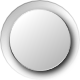
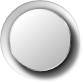
New knob backgrounds; Minor graphical improvements

diff --git a/src/ctl_knob.cpp b/src/ctl_knob.cpp
@@ -56,7 +56,7 @@ calf_knob_expose (GtkWidget *widget, GdkEventExpose *event)
     int neg_b = 0;
     int neg_l = 0;
     
-    cairo_rectangle(ctx, ox, oy, size, size);
+    cairo_rectangle(ctx, ox, oy, size + size / 2, size + size / 2);
     cairo_clip(ctx);
     
     switch (self->knob_type) {
@@ -101,7 +101,13 @@ calf_knob_expose (GtkWidget *widget, GdkEventExpose *event)
     cairo_set_line_width(ctx, widths[self->knob_size]);
     
     // draw background
-    gdk_draw_pixbuf(GDK_DRAWABLE(widget->window), widget->style->fg_gc[0], CALF_KNOB_CLASS(GTK_OBJECT_GET_CLASS(widget))->knob_image[self->knob_size - 1], 0, 0, ox, oy, size, size, GDK_RGB_DITHER_NORMAL, 0, 0);
+    gdk_draw_pixbuf(GDK_DRAWABLE(widget->window),
+                    widget->style->fg_gc[0],
+                    CALF_KNOB_CLASS(GTK_OBJECT_GET_CLASS(widget))->knob_image[self->knob_size - 1],
+                    0, 0, ox, oy,
+                    gdk_pixbuf_get_width(CALF_KNOB_CLASS(GTK_OBJECT_GET_CLASS(widget))->knob_image[self->knob_size - 1]),
+                    gdk_pixbuf_get_height(CALF_KNOB_CLASS(GTK_OBJECT_GET_CLASS(widget))->knob_image[self->knob_size - 1]),
+                    GDK_RGB_DITHER_NORMAL, 0, 0);
     
     // draw unlit
     if (neg_b)

diff --git a/src/ctl_vumeter.cpp b/src/ctl_vumeter.cpp
@@ -208,10 +208,10 @@ calf_vumeter_expose (GtkWidget *widget, GdkEventExpose *event)
         }
         // create blinder pattern
         vu->pat = cairo_pattern_create_linear (led_x, led_y, led_x, led_y + led_h);
-        cairo_pattern_add_color_stop_rgba (vu->pat, 0, 0.5, 0.5, 0.5, 0.6);
-        cairo_pattern_add_color_stop_rgba (vu->pat, 0.4, 0, 0, 0, 0.6);
-        cairo_pattern_add_color_stop_rgba (vu->pat, 0.401, 0, 0, 0, 0.8);
-        cairo_pattern_add_color_stop_rgba (vu->pat, 1, 0, 0, 0, 0.6);
+        cairo_pattern_add_color_stop_rgba (vu->pat, 0, 0.2, 0.2, 0.2, 0.7);
+        cairo_pattern_add_color_stop_rgba (vu->pat, 0.4, 0.05, 0.05, 0.05, 0.5);
+        cairo_pattern_add_color_stop_rgba (vu->pat, 0.401, 0.05, 0.05, 0.05, 0.9);
+        cairo_pattern_add_color_stop_rgba (vu->pat, 1, 0.05, 0.05, 0.05, 0.75);
         cairo_destroy( cache_cr );
     }
     

diff --git a/src/calf/giface.h b/src/calf/giface.h
@@ -850,6 +850,8 @@ inline void line_graph_background(cairo_t* c, int x, int y, int sx, int sy, int 
     cairo_pattern_t *pat2 = cairo_pattern_create_linear (
         x, y, x, y + sy + oy * 2 - pad * 2);
     cairo_pattern_add_color_stop_rgba (pat2, 0, 0.23, 0.23, 0.23, 1);
+    cairo_pattern_add_color_stop_rgba (pat2, 0.33, 0.13, 0.13, 0.13, 1);
+    cairo_pattern_add_color_stop_rgba (pat2, 0.33, 0.05, 0.05, 0.05, 1);
     cairo_pattern_add_color_stop_rgba (pat2, 0.5, 0, 0, 0, 1);
     cairo_set_source (c, pat2);
     cairo_fill(c);
